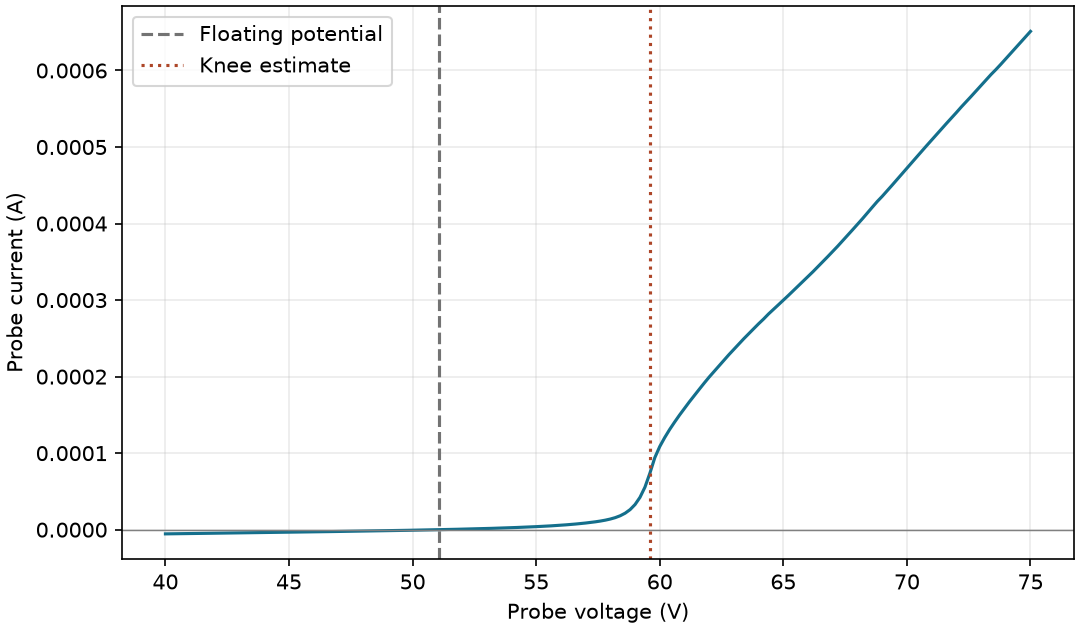
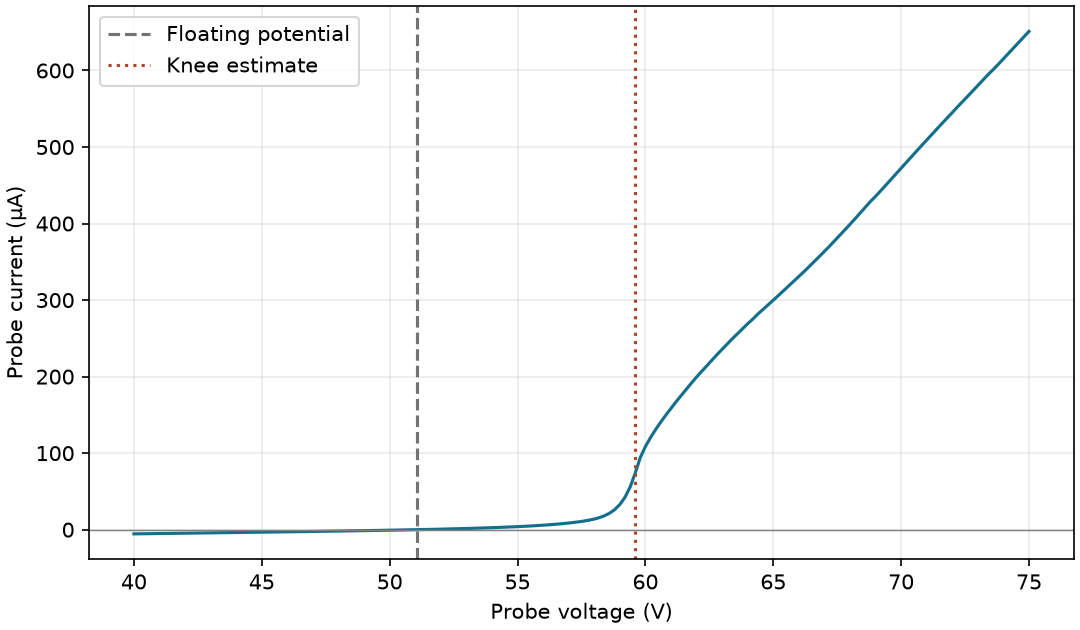
Show measured sweep 23 in the README screenshot and plot current in µA
- Hero screenshot now shows the app with the real sweep 23 opened and
  analyzed (dev/capture_gui.py), so it matches the plots below it.
- GUI: compact analysis summary that fits the sidebar; status line after
  opening a CSV.
- Saved plots use µA, matching the GUI.
- README: one line on what the project demonstrates.

diff --git a/src/langmuir_probe/gui.py b/src/langmuir_probe/gui.py
@@ -3,6 +3,7 @@
 from collections.abc import Callable
 from dataclasses import asdict
 from datetime import datetime, timezone
+from pathlib import Path
 from sys import argv
 
 from matplotlib.backends.backend_qt5agg import FigureCanvasQTAgg, NavigationToolbar2QT
@@ -321,13 +322,17 @@ class MainWindow(QtWidgets.QMainWindow):
         path, _ = QtWidgets.QFileDialog.getOpenFileName(
             self, "Open sweep", filter="CSV (*.csv)"
         )
-        if not path:
-            return
+        if path:
+            self.load_csv(path)
+
+    def load_csv(self, path: str | Path) -> None:
         try:
             self.points, self.metadata = read_csv(path)
         except (OSError, ValueError) as error:
             QtWidgets.QMessageBox.warning(self, "CSV import failed", str(error))
             return
+        self.status.setText(f"Opened CSV: {len(self.points)} points")
+        self.status.setToolTip(str(path))
         self._clear_analysis()
         self.refresh_plot()
         self._update_controls()
@@ -348,7 +353,15 @@ class MainWindow(QtWidgets.QMainWindow):
         except ValueError as error:
             self.summary.setText(str(error))
             return
-        self.summary.setText(self.result.summary())
+        result = self.result
+        self.summary.setText(
+            f"Floating potential: {result.floating_potential:.2f} V\n"
+            f"Plasma potential: {result.plasma_potential:.1f} V\n"
+            f"Ion current: {result.ion_current * 1e6:.2f} µA\n"
+            f"Te: {result.electron_temperature:.2f} ± "
+            f"{result.temperature_uncertainty:.2f} eV\n"
+            f"Fit window: {result.fit_start:.1f} to {result.fit_end:.1f} V"
+        )
         self.refresh_plot()
         self._update_controls()
 

diff --git a/dev/capture_gui.py b/dev/capture_gui.py
@@ -1,0 +1,40 @@
+"""Capture the README screenshot: the app with measured sweep 23 opened and analyzed.
+
+Run in a desktop session (Qt's offscreen platform renders no text on Windows):
+    python dev/capture_gui.py docs/img/sweep-gui.png
+"""
+
+import sys
+from pathlib import Path
+
+from PyQt5 import QtCore, QtWidgets
+
+from langmuir_probe.gui import MainWindow
+
+SWEEP = Path(__file__).resolve().parents[1] / "examples" / "voltage_current_data_23.csv"
+
+
+def main() -> int:
+    capture = Path(sys.argv[1])
+    app = QtWidgets.QApplication(sys.argv[:1])
+    window = MainWindow(lambda: ("GPIB0::1::INSTR",))
+    window.step.setValue(0.2)  # match the recorded sweep's step
+    window.resize(1100, 760)
+    window.show()
+
+    def grab() -> None:
+        window.load_csv(SWEEP)
+        window.analyze_trace()
+        window.canvas.draw()
+        QtCore.QTimer.singleShot(300, save)
+
+    def save() -> None:
+        capture.parent.mkdir(parents=True, exist_ok=True)
+        app.exit(0 if window.grab().save(str(capture)) else 1)
+
+    QtCore.QTimer.singleShot(500, grab)
+    return app.exec_()
+
+
+if __name__ == "__main__":
+    raise SystemExit(main())

diff --git a/src/langmuir_probe/analysis.py b/src/langmuir_probe/analysis.py
@@ -179,7 +179,9 @@ def save_plot(
 
     figure = Figure(figsize=(7.2, 4.2), layout="constrained")
     FigureCanvasAgg(figure)
-    draw_trace(points, figure.add_subplot(), semilog=semilog, result=result)
+    draw_trace(
+        points, figure.add_subplot(), semilog=semilog, result=result, microamps=True
+    )
     figure.savefig(path, dpi=150)
 
 

diff --git a/README.md b/README.md
@@ -2,9 +2,11 @@
 
 Python software that drives an Aim-TTi SMU4201 over GPIB, plots a Langmuir probe voltage sweep live, and estimates plasma parameters from the recorded trace.
 
+Built and used on a real argon plasma experiment: SCPI instrument control through PyVISA, a PyQt acquisition app with live plotting, and an analysis CLI that fits electron temperature from measured data.
+
 [![CI](https://github.com/nelscamp/langmuir-probe-iv-sweep/actions/workflows/ci.yml/badge.svg)](https://github.com/nelscamp/langmuir-probe-iv-sweep/actions/workflows/ci.yml)
 
-![Langmuir probe sweep application showing a completed I–V trace](docs/img/sweep-gui.png)
+![Langmuir probe sweep application with measured sweep 23 opened and analyzed](docs/img/sweep-gui.png)
 
 ## Why it exists
 
